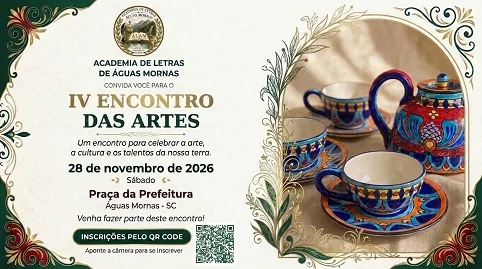
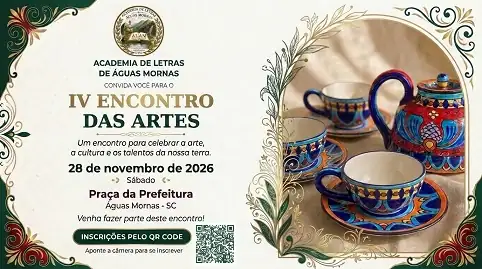
prototipo-ALAM: entrega de imagens responsiva (srcset 550w/140w) e recompressao dos convites e do brasao

diff --git a/prototipo-ALAM/eventos.html b/prototipo-ALAM/eventos.html
@@ -464,7 +464,7 @@ body::before{
   <div class="container header-inner">
 
     <a class="brand" href="index.html">
-      <img class="brand-mark" src="img/logo-alam.webp" alt="Brasão da Academia de Letras de Águas Mornas" width="50" height="50">
+      <img class="brand-mark" src="img/logo-alam-140.webp" srcset="img/logo-alam-140.webp 140w, img/logo-alam.webp 256w" sizes="50px" alt="Brasão da Academia de Letras de Águas Mornas" width="50" height="50">
       <span class="brand-text">
         <strong>ALAM</strong>
         <span>Academia de Letras<br>de Águas Mornas</span>
@@ -630,7 +630,7 @@ body::before{
         </div>
 
         <figure class="frame">
-          <picture><source srcset="img/convite-iv-encontro.webp" type="image/webp"><img src="img/convite-iv-encontro.jpg" data-zoom
+          <picture><source type="image/webp" srcset="img/convite-iv-encontro-550.webp 550w, img/convite-iv-encontro.webp 900w" sizes="(min-width:769px) 547px, 313px"><img src="img/convite-iv-encontro.jpg" data-zoom
                alt="Convite do IV Encontro das Artes: 28 de novembro de 2026, Praça da Prefeitura, Águas Mornas — SC, com inscrições por QR Code."
                width="900" height="1125" loading="lazy"></picture>
           <figcaption>Convite oficial &middot; clique para ampliar</figcaption>
@@ -770,7 +770,7 @@ body::before{
   <div class="container footer-grid">
 
     <div class="footer-brand">
-      <img src="img/logo-alam.webp" alt="" width="80" height="80" loading="lazy">
+      <img src="img/logo-alam-140.webp" srcset="img/logo-alam-140.webp 140w, img/logo-alam.webp 256w" sizes="80px" alt="" width="80" height="80" loading="lazy">
       <div>
         <strong>Academia de Letras de Águas Mornas</strong>
         <p class="footer-motto">&ldquo;Guardiã das Letras e da memória.&rdquo;</p>

diff --git a/prototipo-ALAM/index.html b/prototipo-ALAM/index.html
@@ -475,7 +475,7 @@ body::before{
   <div class="container header-inner">
 
     <a class="brand" href="index.html">
-      <img class="brand-mark" src="img/logo-alam.webp" alt="Brasão da Academia de Letras de Águas Mornas" width="50" height="50">
+      <img class="brand-mark" src="img/logo-alam-140.webp" srcset="img/logo-alam-140.webp 140w, img/logo-alam.webp 256w" sizes="50px" alt="Brasão da Academia de Letras de Águas Mornas" width="50" height="50">
       <span class="brand-text">
         <strong>ALAM</strong>
         <span>Academia de Letras<br>de Águas Mornas</span>
@@ -691,7 +691,7 @@ body::before{
         </div>
 
         <figure class="frame">
-          <picture><source srcset="img/convite-iv-encontro.webp" type="image/webp"><img src="img/convite-iv-encontro.jpg" data-zoom
+          <picture><source type="image/webp" srcset="img/convite-iv-encontro-550.webp 550w, img/convite-iv-encontro.webp 900w" sizes="(min-width:769px) 547px, 313px"><img src="img/convite-iv-encontro.jpg" data-zoom
                alt="Convite do IV Encontro das Artes: 28 de novembro de 2026, Praça da Prefeitura, Águas Mornas — SC, com inscrições por QR Code."
                width="900" height="1125" loading="lazy"></picture>
           <figcaption>Convite oficial &middot; clique para ampliar</figcaption>
@@ -837,7 +837,7 @@ body::before{
   <div class="container footer-grid">
 
     <div class="footer-brand">
-      <img src="img/logo-alam.webp" alt="" width="80" height="80" loading="lazy">
+      <img src="img/logo-alam-140.webp" srcset="img/logo-alam-140.webp 140w, img/logo-alam.webp 256w" sizes="80px" alt="" width="80" height="80" loading="lazy">
       <div>
         <strong>Academia de Letras de Águas Mornas</strong>
         <p class="footer-motto">&ldquo;Guardiã das Letras e da memória.&rdquo;</p>

diff --git a/prototipo-ALAM/academicos.html b/prototipo-ALAM/academicos.html
@@ -464,7 +464,7 @@ body::before{
   <div class="container header-inner">
 
     <a class="brand" href="index.html">
-      <img class="brand-mark" src="img/logo-alam.webp" alt="Brasão da Academia de Letras de Águas Mornas" width="50" height="50">
+      <img class="brand-mark" src="img/logo-alam-140.webp" srcset="img/logo-alam-140.webp 140w, img/logo-alam.webp 256w" sizes="50px" alt="Brasão da Academia de Letras de Águas Mornas" width="50" height="50">
       <span class="brand-text">
         <strong>ALAM</strong>
         <span>Academia de Letras<br>de Águas Mornas</span>
@@ -829,7 +829,7 @@ body::before{
   <div class="container footer-grid">
 
     <div class="footer-brand">
-      <img src="img/logo-alam.webp" alt="" width="80" height="80" loading="lazy">
+      <img src="img/logo-alam-140.webp" srcset="img/logo-alam-140.webp 140w, img/logo-alam.webp 256w" sizes="80px" alt="" width="80" height="80" loading="lazy">
       <div>
         <strong>Academia de Letras de Águas Mornas</strong>
         <p class="footer-motto">&ldquo;Guardiã das Letras e da memória.&rdquo;</p>

diff --git a/prototipo-ALAM/contato.html b/prototipo-ALAM/contato.html
@@ -477,7 +477,7 @@ body::before{
   <div class="container header-inner">
 
     <a class="brand" href="index.html">
-      <img class="brand-mark" src="img/logo-alam.webp" alt="Brasão da Academia de Letras de Águas Mornas" width="50" height="50">
+      <img class="brand-mark" src="img/logo-alam-140.webp" srcset="img/logo-alam-140.webp 140w, img/logo-alam.webp 256w" sizes="50px" alt="Brasão da Academia de Letras de Águas Mornas" width="50" height="50">
       <span class="brand-text">
         <strong>ALAM</strong>
         <span>Academia de Letras<br>de Águas Mornas</span>
@@ -708,7 +708,7 @@ body::before{
   <div class="container footer-grid">
 
     <div class="footer-brand">
-      <img src="img/logo-alam.webp" alt="" width="80" height="80" loading="lazy">
+      <img src="img/logo-alam-140.webp" srcset="img/logo-alam-140.webp 140w, img/logo-alam.webp 256w" sizes="80px" alt="" width="80" height="80" loading="lazy">
       <div>
         <strong>Academia de Letras de Águas Mornas</strong>
         <p class="footer-motto">&ldquo;Guardiã das Letras e da memória.&rdquo;</p>

diff --git a/prototipo-ALAM/noticias.html b/prototipo-ALAM/noticias.html
@@ -464,7 +464,7 @@ body::before{
   <div class="container header-inner">
 
     <a class="brand" href="index.html">
-      <img class="brand-mark" src="img/logo-alam.webp" alt="Brasão da Academia de Letras de Águas Mornas" width="50" height="50">
+      <img class="brand-mark" src="img/logo-alam-140.webp" srcset="img/logo-alam-140.webp 140w, img/logo-alam.webp 256w" sizes="50px" alt="Brasão da Academia de Letras de Águas Mornas" width="50" height="50">
       <span class="brand-text">
         <strong>ALAM</strong>
         <span>Academia de Letras<br>de Águas Mornas</span>
@@ -692,7 +692,7 @@ body::before{
   <div class="container footer-grid">
 
     <div class="footer-brand">
-      <img src="img/logo-alam.webp" alt="" width="80" height="80" loading="lazy">
+      <img src="img/logo-alam-140.webp" srcset="img/logo-alam-140.webp 140w, img/logo-alam.webp 256w" sizes="80px" alt="" width="80" height="80" loading="lazy">
       <div>
         <strong>Academia de Letras de Águas Mornas</strong>
         <p class="footer-motto">&ldquo;Guardiã das Letras e da memória.&rdquo;</p>

diff --git a/prototipo-ALAM/publicacoes.html b/prototipo-ALAM/publicacoes.html
@@ -464,7 +464,7 @@ body::before{
   <div class="container header-inner">
 
     <a class="brand" href="index.html">
-      <img class="brand-mark" src="img/logo-alam.webp" alt="Brasão da Academia de Letras de Águas Mornas" width="50" height="50">
+      <img class="brand-mark" src="img/logo-alam-140.webp" srcset="img/logo-alam-140.webp 140w, img/logo-alam.webp 256w" sizes="50px" alt="Brasão da Academia de Letras de Águas Mornas" width="50" height="50">
       <span class="brand-text">
         <strong>ALAM</strong>
         <span>Academia de Letras<br>de Águas Mornas</span>
@@ -654,7 +654,7 @@ body::before{
   <div class="container footer-grid">
 
     <div class="footer-brand">
-      <img src="img/logo-alam.webp" alt="" width="80" height="80" loading="lazy">
+      <img src="img/logo-alam-140.webp" srcset="img/logo-alam-140.webp 140w, img/logo-alam.webp 256w" sizes="80px" alt="" width="80" height="80" loading="lazy">
       <div>
         <strong>Academia de Letras de Águas Mornas</strong>
         <p class="footer-motto">&ldquo;Guardiã das Letras e da memória.&rdquo;</p>

diff --git a/prototipo-ALAM/sobre.html b/prototipo-ALAM/sobre.html
@@ -464,7 +464,7 @@ body::before{
   <div class="container header-inner">
 
     <a class="brand" href="index.html">
-      <img class="brand-mark" src="img/logo-alam.webp" alt="Brasão da Academia de Letras de Águas Mornas" width="50" height="50">
+      <img class="brand-mark" src="img/logo-alam-140.webp" srcset="img/logo-alam-140.webp 140w, img/logo-alam.webp 256w" sizes="50px" alt="Brasão da Academia de Letras de Águas Mornas" width="50" height="50">
       <span class="brand-text">
         <strong>ALAM</strong>
         <span>Academia de Letras<br>de Águas Mornas</span>
@@ -768,7 +768,7 @@ body::before{
   <div class="container footer-grid">
 
     <div class="footer-brand">
-      <img src="img/logo-alam.webp" alt="" width="80" height="80" loading="lazy">
+      <img src="img/logo-alam-140.webp" srcset="img/logo-alam-140.webp 140w, img/logo-alam.webp 256w" sizes="80px" alt="" width="80" height="80" loading="lazy">
       <div>
         <strong>Academia de Letras de Águas Mornas</strong>
         <p class="footer-motto">&ldquo;Guardiã das Letras e da memória.&rdquo;</p>
